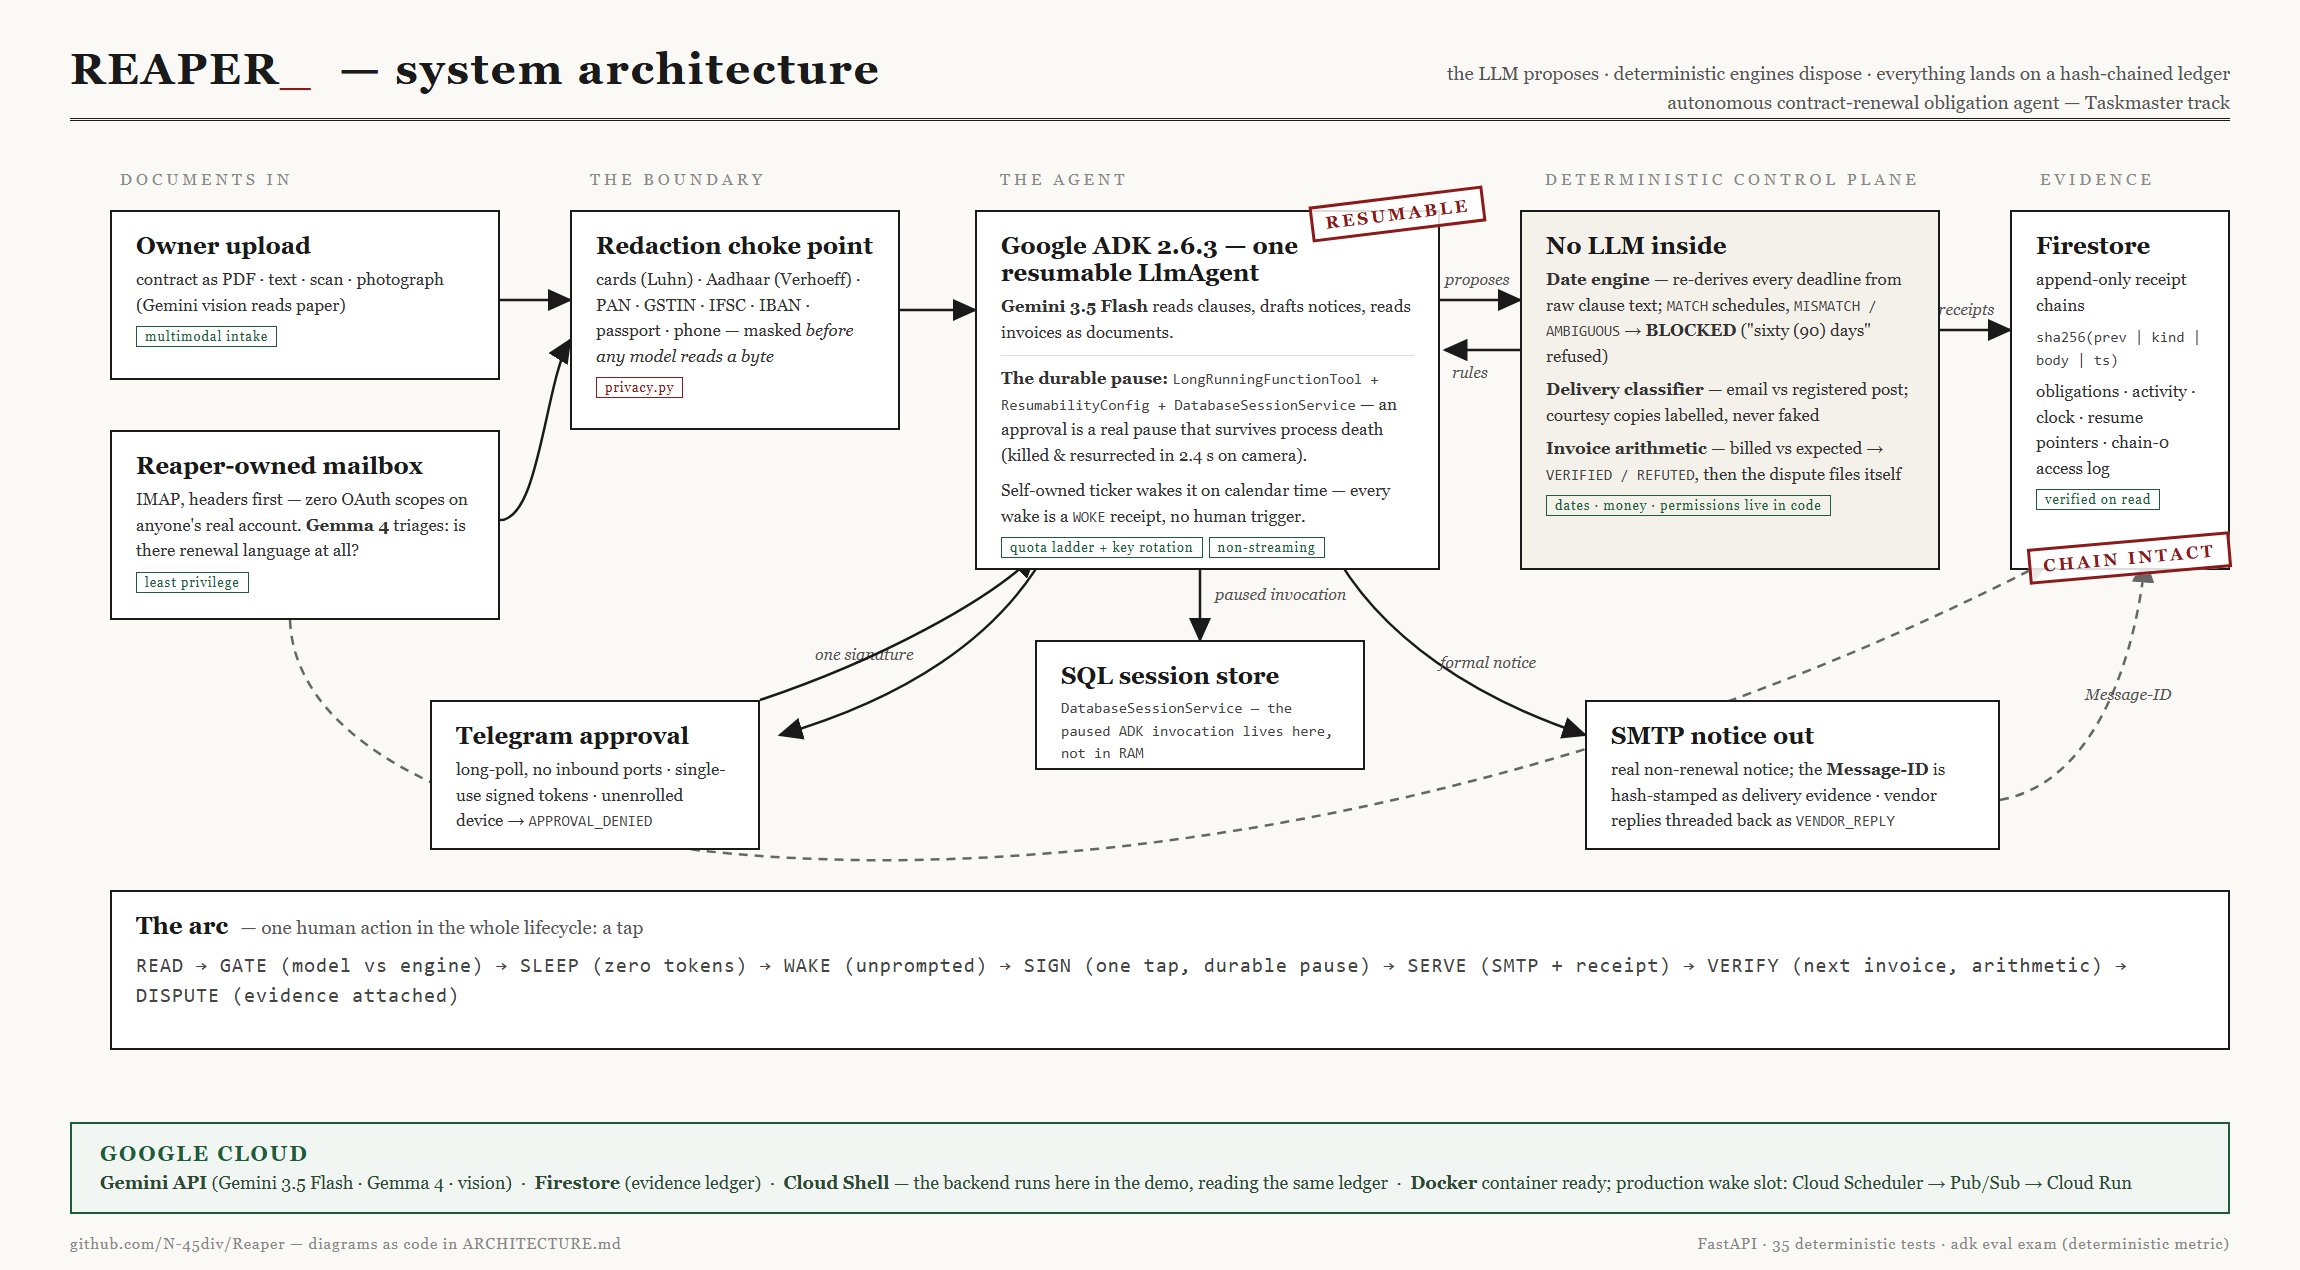
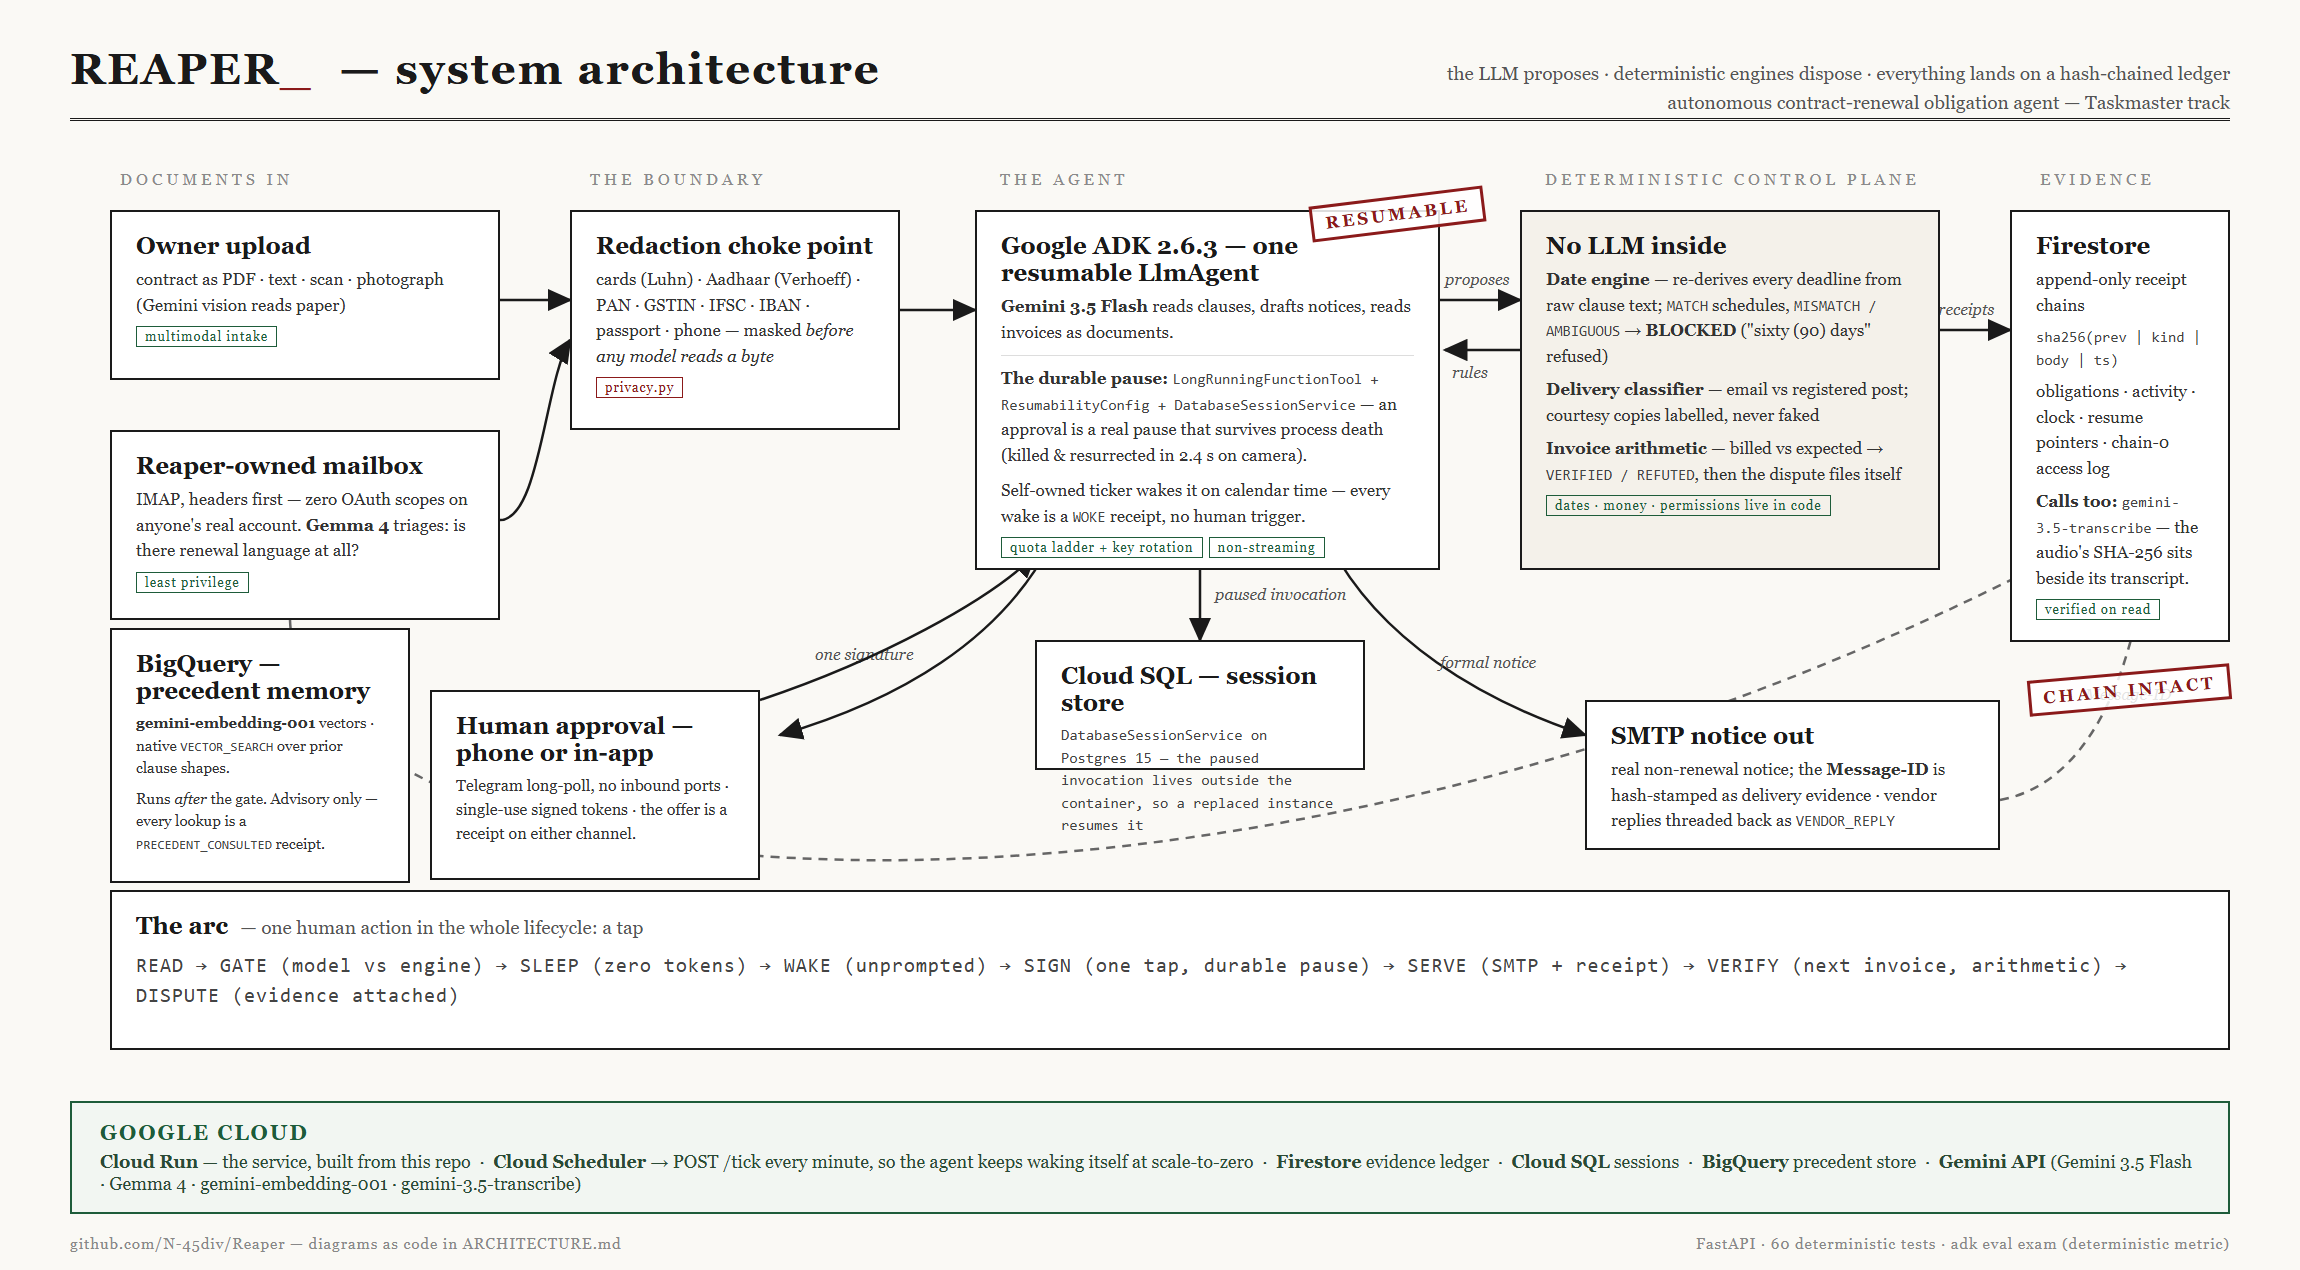
docs: describe the deployment that actually exists
The docs still described a Render container with the ledger elsewhere. It now
runs on Cloud Run, with Firestore for evidence, Cloud SQL for ADK session
state, BigQuery for precedent memory and Cloud Scheduler driving the wake -
all in one project, so it can be torn down in one command.

Adds the step-by-step deploy guide, repoints the live-instance URL, and
explains the two decisions a reader would otherwise have to reverse-engineer:
why there are two stores (a document store fits a receipt chain; the paused
ADK invocation is relational and must outlive its container), and why the
Cloud SQL DSN carries no host:port (Cloud Run mounts the instance as a socket
directory).

The architecture diagram gained the two subsystems it never showed - BigQuery
precedent memory and call transcription - and .gcloudignore keeps the source
upload to the app instead of the whole working tree.

diff --git a/README.md b/README.md
@@ -3,7 +3,7 @@
 **The agent that finishes the cancellation chore — and checks that the vendor
 obeyed.**
 
-[**Live demo**](https://reaper-sxxs.onrender.com) ·
+[**Live demo**](https://reaper-t2w3ltp6fa-uc.a.run.app) ·
 [**Architecture**](ARCHITECTURE.md) ·
 [**Testing guide**](TESTING.md)
 
@@ -78,6 +78,15 @@ record.
   *"this vendor billed anyway last time."* Strictly advisory — the lookup runs
   after the gate has ruled, every consultation (even a failed one) is a
   `PRECEDENT_CONSULTED` receipt, and history can never change a verdict
+- **The channel that leaves no document** — cancellations get confirmed on the
+  phone and denied on the invoice. Upload the recording and
+  `gemini-3.5-transcribe` writes down what was said; the audio's own SHA-256 is
+  stored beside the transcript, so the transcript re-derives from the file and
+  the file is provably the one that was read. Identifiers spoken aloud are
+  masked before anything is stored — a card number read back over the phone
+  reaches the ledger as `[redacted:1111]`, and the receipt says how many were
+  refused. The model is asked to transcribe and nothing else: what was said is
+  a fact, what it means is for the deterministic checks and the human
 - **Autonomy you can audit** — unprompted wakes are `WOKE` receipts; a
   refuted billing verdict that the agent's turn failed to act on is filed by
   a deterministic backstop, and the chain says the backstop did it
@@ -91,28 +100,62 @@ record.
 | **Gemini 3.5 Flash** (Gemini API) | reads contracts, drafts notices, reads invoice documents |
 | **Gemma 4** | mailbox triage — is there renewal language at all? |
 | **gemini-embedding-001** | 768-dim clause vectors for precedent memory |
+| **gemini-3.5-transcribe** | call recordings → a verbatim transcript, entered as evidence |
 | **Google ADK 2.6.3** | the single resumable `LlmAgent` and its durable pause |
+| **Cloud Run** | the deployed service, built from this repo |
 | **Firestore** | the hash-chained evidence ledger, activity register, clock |
+| **Cloud SQL** (Postgres 15) | the ADK session store — where a paused run waits |
 | **BigQuery** | the precedent store, matched with native `VECTOR_SEARCH` |
+| **Cloud Scheduler** | `POST /tick` every minute — the self-wake at scale-to-zero |
 
-FastAPI serves the app; the hosted demo runs the container on Render with
-sessions in Postgres, writing to the same Firestore ledger. Cloud Scheduler →
-Pub/Sub is the production slot for the wake ticker.
+FastAPI serves the app. Two stores, because they do different jobs: Firestore
+holds the **evidence** — append-only, hash-chained, the thing you audit — while
+Cloud SQL holds **ADK's resume state**, which is relational and framework-owned.
+The split is deliberate: a document store fits a receipt chain, and the paused
+invocation has to survive the container being replaced.
+
+That last point is why Cloud Scheduler exists here. Cloud Run stops the
+container between requests, so an in-process loop cannot be the only heartbeat:
+the scheduler calls `/tick`, which runs the *same* `_tick_once()` body the local
+loop runs. One code path, so the thing demonstrated is the thing that ships.
+
+## What is real, and what is simulated
+
+A demo that hides its seams is not evidence of anything, so here are ours.
+
+**Real.** The agent and its durable pause. The gate. The process kill and the
+resurrection. The hash chain and the Firestore ledger. BigQuery precedent
+recall via `VECTOR_SEARCH`. The SMTP notice and the Message-ID stamped into
+the chain. The IMAP scanning, including every message it declined to open. The
+transcription, the redaction, and every receipt.
+
+**Simulated.** The counterparty. DataVault Pro is not a company: it lives at
+`@datavaultpro.test`, its replies come from a stub, and `check_invoice` seeds
+the invoice it then goes on to read. In the demo film the vendor's phone call
+is two Windows text-to-speech voices, not a recorded person — what the model
+hears in that audio, and what the ledger does with it, is not simulated.
+
+The line that matters: nothing in the reasoning, the arithmetic or the
+evidence is staged. The other party is.
 
 ## Try the live instance
 
-**https://reaper-sxxs.onrender.com** — the ledger UI is at
-[`/app`](https://reaper-sxxs.onrender.com/app). It serves the same Firestore
-evidence chain shown in the demo video. Worth poking:
+**https://reaper-t2w3ltp6fa-uc.a.run.app** — the ledger UI is at
+[`/app`](https://reaper-t2w3ltp6fa-uc.a.run.app/app). It serves the same
+Firestore evidence chain shown in the demo video. Worth poking:
 
 ```bash
-curl https://reaper-sxxs.onrender.com/obligations            # the real ledger
-curl https://reaper-sxxs.onrender.com/precedents/status      # BigQuery store health
-curl -X POST https://reaper-sxxs.onrender.com/chaos/kill     # yes, really — the
-                                                             # pause survives it
+BASE=https://reaper-t2w3ltp6fa-uc.a.run.app
+curl $BASE/obligations            # the real ledger
+curl $BASE/precedents/status      # BigQuery store health, and row count
+curl $BASE/quota                  # which model buckets are still open
+curl -X POST $BASE/chaos/kill     # yes, really — the pause survives it
 ```
 
-First request after an idle spell can take ~30 seconds.
+It scales to zero, so the first request after an idle spell can take ~30
+seconds. The kill is worth trying: Cloud Run replaces the instance, and the
+pending approval is still there when it comes back, because it was never in
+that container's memory.
 
 ## Run it locally
 
@@ -155,10 +198,64 @@ days"* trap get refused, and `northwind-facilities-photo.jpg` to file a
 photographed contract. The **[testing guide](TESTING.md)** walks every path
 with expected outputs, including the precedent store setup.
 
+## Deploy it to Google Cloud
+
+Everything lives in one project, so it can be torn down in one command. The
+only secret is a Gemini API key; Firestore, BigQuery and Cloud SQL authenticate
+as the Cloud Run service account.
+
+```bash
+PROJECT=your-project-id
+REGION=us-central1
+
+gcloud services enable run.googleapis.com cloudbuild.googleapis.com   firestore.googleapis.com bigquery.googleapis.com   cloudscheduler.googleapis.com sqladmin.googleapis.com --project=$PROJECT
+
+# 1 · the evidence ledger
+gcloud firestore databases create --location=$REGION   --type=firestore-native --project=$PROJECT
+
+# 2 · the session store. A paused run must outlive the container it started in,
+#     which rules out anything on the container filesystem.
+gcloud sql instances create reaper-db --database-version=POSTGRES_15   --tier=db-f1-micro --region=$REGION --project=$PROJECT
+gcloud sql databases create reaper --instance=reaper-db --project=$PROJECT
+gcloud sql users create reaper --instance=reaper-db --password="$DB_PASSWORD" --project=$PROJECT
+
+# 3 · precedent memory (embeds the fixture corpus, then loads it)
+GOOGLE_CLOUD_PROJECT=$PROJECT REAPER_PRECEDENT=bigquery   python scripts/seed_precedents.py --create --from-fixtures --replace
+
+# 4 · the service
+gcloud run deploy reaper --source . --region=$REGION --allow-unauthenticated   --add-cloudsql-instances=$PROJECT:$REGION:reaper-db   --env-vars-file=env.yaml --project=$PROJECT
+
+# 5 · the heartbeat, so the agent still wakes itself at scale-to-zero
+gcloud scheduler jobs create http reaper-tick --schedule="* * * * *"   --uri="$SERVICE_URL/tick" --http-method=POST --message-body='{}'   --headers="x-reaper-tick=$TICK_SECRET,Content-Type=application/json"   --location=$REGION --project=$PROJECT
+```
+
+`env.yaml` (never commit it — it holds the key and the database password):
+
+```yaml
+GOOGLE_CLOUD_PROJECT: "your-project-id"
+GOOGLE_API_KEYS:      "key1,key2"          # comma-separated; rotated per bucket
+REAPER_LEDGER:        "firestore"
+REAPER_DB_URL:        "postgresql+asyncpg://reaper:PASSWORD@/reaper?host=/cloudsql/PROJECT:REGION:reaper-db"
+REAPER_PRECEDENT:     "bigquery"
+REAPER_TICK_SECRET:   "a-random-string"    # /tick refuses without it
+```
+
+Two things worth knowing. The Cloud SQL socket path is why `REAPER_DB_URL` has
+no host:port — Cloud Run mounts the instance at `/cloudsql/<connection name>`
+and asyncpg takes that *directory* as the host. And `/tick` is guarded by a
+shared secret: an open heartbeat on a public URL is a way for anyone to spend
+your model quota.
+
+**Vertex AI** is supported too (`GOOGLE_GENAI_USE_VERTEXAI=True`), which needs
+no API key at all — the service account authenticates. It is not the default
+because Vertex's catalogue is narrower: at the time of writing it served
+`gemini-2.5-flash` in `us-central1` but not the 3.x Flash line, Gemma, or the
+transcription model, so the Gemini API keeps all four Google models available.
+
 ## Tests & the eval exam
 
 ```bash
-.venv/Scripts/python -m pytest tests -q          # 51 deterministic unit tests
+.venv/Scripts/python -m pytest tests -q          # 60 deterministic unit tests
 .venv/Scripts/python scripts/make_evalset.py     # regenerate the ADK eval set
 REAPER_LEDGER=sqlite .venv/Scripts/adk eval reaper evals/reaper.evalset.json --config_file_path evals/eval_config.json
 ```

diff --git a/ARCHITECTURE.md b/ARCHITECTURE.md
@@ -309,32 +309,38 @@ than asking the silent one again.
 ```mermaid
 flowchart TD
     subgraph gcp["Google Cloud"]
-        gemini["Gemini API<br/>Gemini 3.5 Flash · Gemma 4 · vision"]
+        gemini["Gemini API<br/>Gemini 3.5 Flash · Gemma 4 · vision<br/>gemini-embedding-001 · gemini-3.5-transcribe"]
         fs[("Firestore<br/>obligations · receipts · activity · clock")]
-        shell["Cloud Shell VM<br/>backend runs here in the demo"]
+        run["Cloud Run<br/>the deployed service, built from this repo"]
         bq[("BigQuery<br/>precedent memory: clause shapes,<br/>outcomes, vector search")]
-        sched["Cloud Scheduler → Pub/Sub<br/>production wake slot"]
+        sql[("Cloud SQL · Postgres 15<br/>ADK session store: where a paused run waits")]
+        sched["Cloud Scheduler<br/>POST /tick every minute"]
     end
 
     app["Reaper server<br/>FastAPI + ADK runner"]
 
     app <--> gemini
     app <--> fs
+    app <-->|"paused invocation"| sql
     app -->|"advisory recall"| bq
-    shell --- app
-    sched -.->|"production path for the ticker"| app
+    run --- app
+    sched -->|"the self-wake, at scale-to-zero"| app
 ```
 
-Today the wake path is a self-owned asyncio ticker inside the server (every
-wake is a `WOKE` receipt — the agent acts unprompted, on calendar time). The
-ticker's production slot is Cloud Scheduler firing through Pub/Sub; the
-Dockerfile in the repo root builds the container for that deployment.
+The wake path runs both ways, from one body. Locally a self-owned asyncio
+ticker calls `_tick_once()` on a loop; on Cloud Run the container does not
+exist between requests, so Cloud Scheduler calls `POST /tick` every minute and
+that same `_tick_once()` runs. Deliberately not two implementations: a
+separate "scheduled" path would drift from the one the demo exercises. Either
+way each wake is a `WOKE` receipt — the agent acts unprompted, on calendar
+time — and `/tick` requires a shared secret, because an open heartbeat on a
+public URL is a way for a stranger to spend your model quota.
 
 ## Module index
 
 | Module | Responsibility |
 |---|---|
-| `main.py` | FastAPI surface, intake choke point, ticker, approval delivery, chaos kill |
+| `main.py` | FastAPI surface, intake choke point, `_tick_once()` + `/tick`, approval delivery, chaos kill |
 | `reaper/agent.py` | The single resumable `LlmAgent`, phase instructions, model rotation hook |
 | `reaper/tools.py` | Agent tools: gate-and-schedule, send notice, check invoice, open dispute |
 | `reaper/date_engine.py` | Deterministic deadline re-derivation and the MATCH/MISMATCH/AMBIGUOUS gate |

diff --git a/TESTING.md b/TESTING.md
@@ -6,9 +6,10 @@ optional live channels documented at the end.
 
 ## The hosted instance (nothing to install)
 
-A live test instance runs at **https://reaper-sxxs.onrender.com** — the app UI
+A live test instance runs at **https://reaper-t2w3ltp6fa-uc.a.run.app** — the app UI
 is at `/app`, and it writes to the same Firestore ledger shown in the demo
-video. Compute is on Render's free tier; the evidence chain is on Google Cloud.
+video. Compute is Cloud Run; the ledger is Firestore, the sessions Cloud SQL and
+the precedent store BigQuery - all in the same Google Cloud project.
 Judges can exercise the whole arc there, including `POST /chaos/kill` to prove
 the approval pause survives a process death. The instance may take ~30 seconds
 to answer the first request if it has been idle.
@@ -215,7 +216,7 @@ the (key, model) pair. Two commands answer "can this actually run right now?":
 
 ```bash
 # what the running instance believes it has left (no API calls, no keys printed)
-curl -s https://reaper-sxxs.onrender.com/quota
+curl -s https://reaper-t2w3ltp6fa-uc.a.run.app/quota
 
 # ask every pair directly - one realistic request each
 python scripts/quota_census.py
@@ -237,9 +238,9 @@ see the same picture before depending on it.
 asserts every transition, with no browser involved:
 
 ```bash
-python scripts/smoke_hosted.py https://reaper-sxxs.onrender.com            # full arc
-python scripts/smoke_hosted.py https://reaper-sxxs.onrender.com --preroll  # up to the phone offer
-python scripts/smoke_hosted.py https://reaper-sxxs.onrender.com --from-kill  # continue a primed world
+python scripts/smoke_hosted.py https://reaper-t2w3ltp6fa-uc.a.run.app            # full arc
+python scripts/smoke_hosted.py https://reaper-t2w3ltp6fa-uc.a.run.app --preroll  # up to the phone offer
+python scripts/smoke_hosted.py https://reaper-t2w3ltp6fa-uc.a.run.app --from-kill  # continue a primed world
 ```
 
 The full arc covers: reset, intake, the trap clause, precedent recall, the
